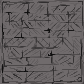
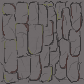
add(sprites): variation on different terrains and new tiles

diff --git a/src/main/java/view/TileManager.java b/src/main/java/view/TileManager.java
@@ -76,9 +76,9 @@ public class TileManager implements TilesDistribution {
                     TerrainType.WALL);
             tiles[8] = new Tile(ImageIO.read(getClass().getResourceAsStream("/TileImages/tree.png")), true,
                     TerrainType.TREE);
-            tiles[9] = new Tile(ImageIO.read(getClass().getResourceAsStream("/TileImages/water.png")), false,
+            tiles[9] = new Tile(ImageIO.read(getClass().getResourceAsStream("/TileImages/endportal.png")), false,
                     TerrainType.PORTALEND);
-            tiles[10] = new Tile(ImageIO.read(getClass().getResourceAsStream("/TileImages/sand.png")), false,
+            tiles[10] = new Tile(ImageIO.read(getClass().getResourceAsStream("/TileImages/portal.png")), false,
                     TerrainType.PORTALTRANSPORT);
         } catch (IOException e) {
             e.printStackTrace();
